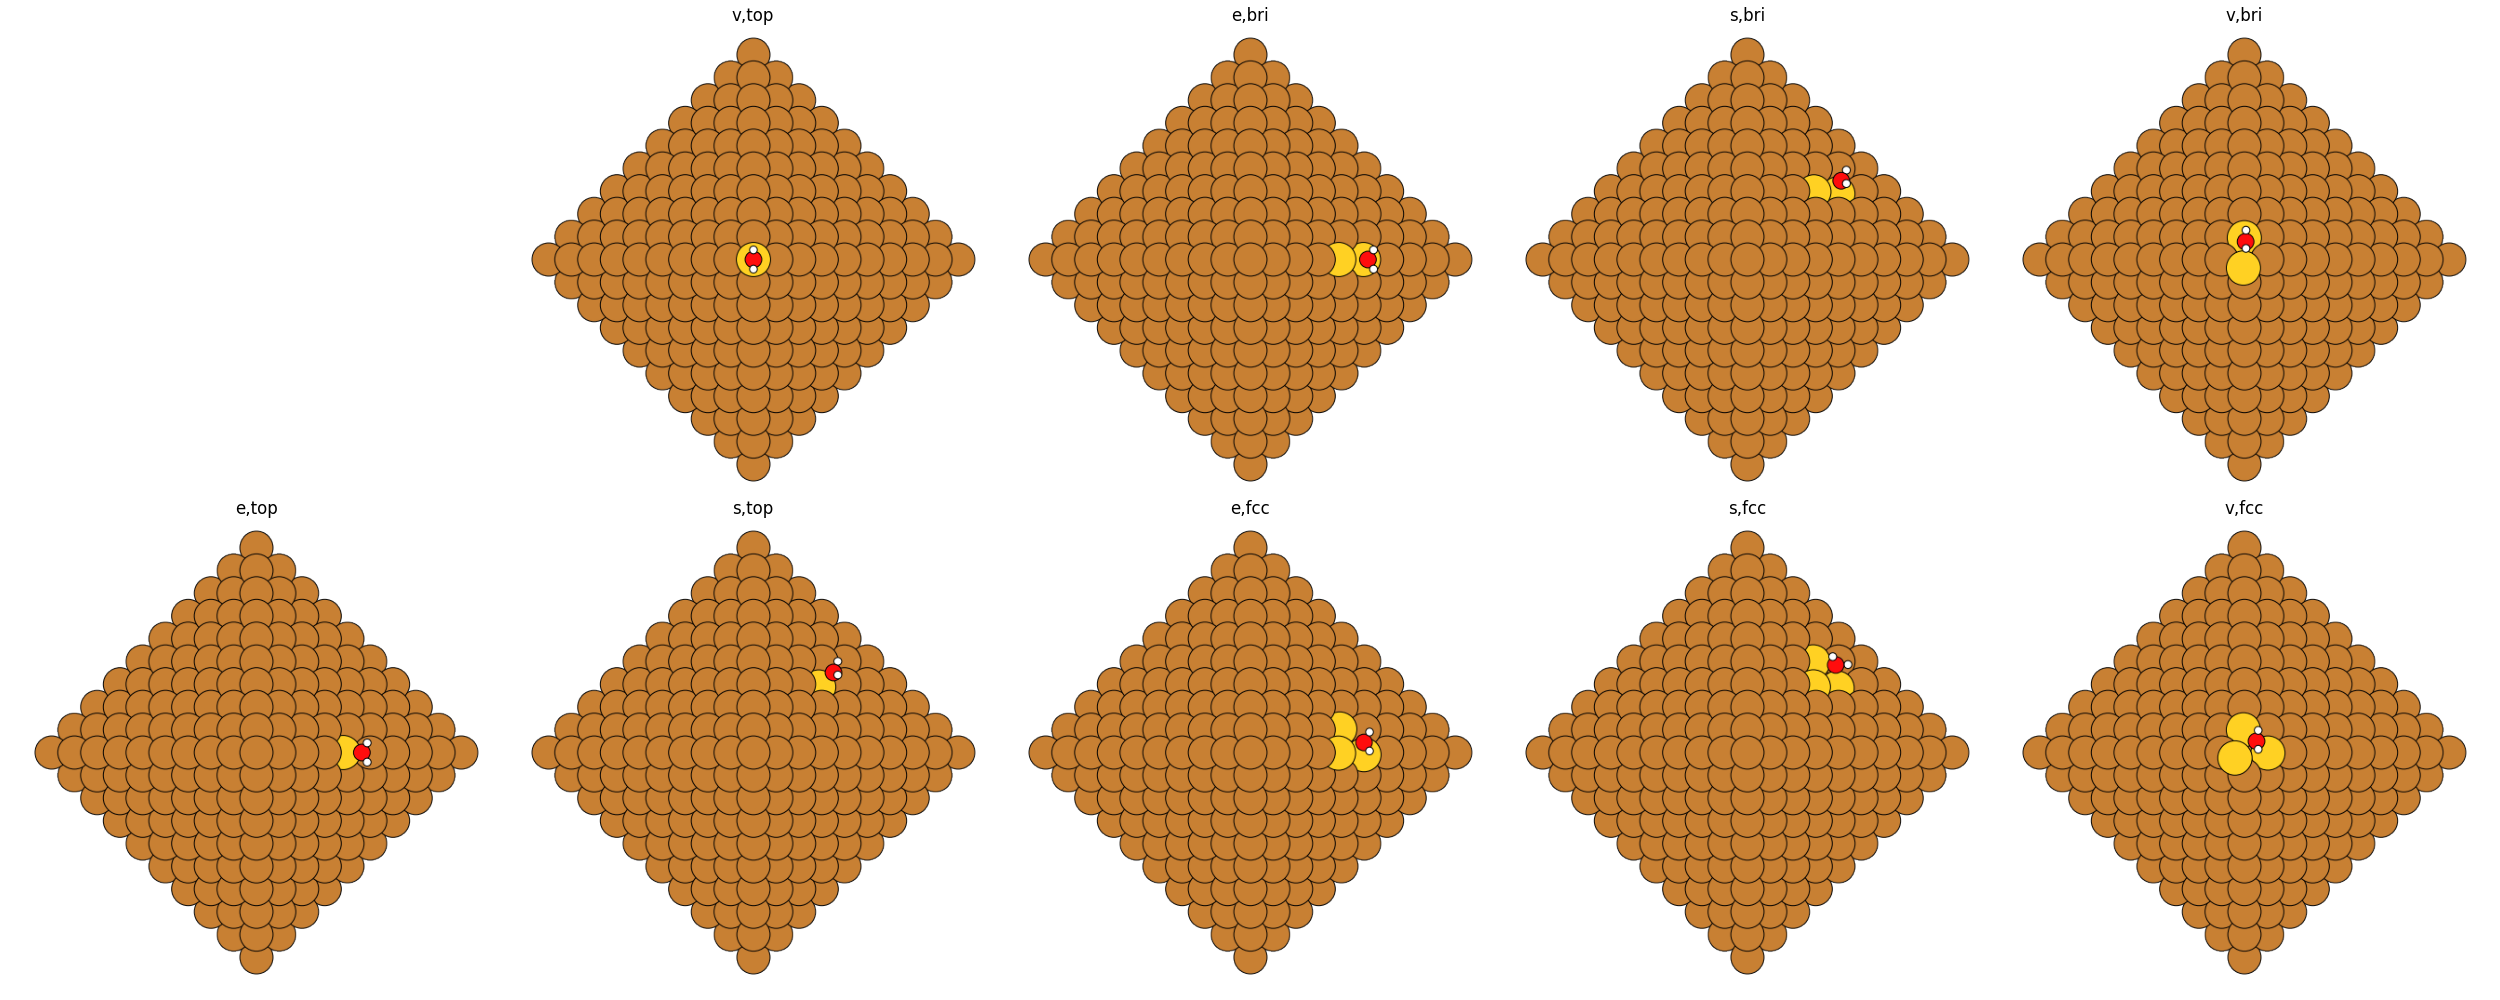
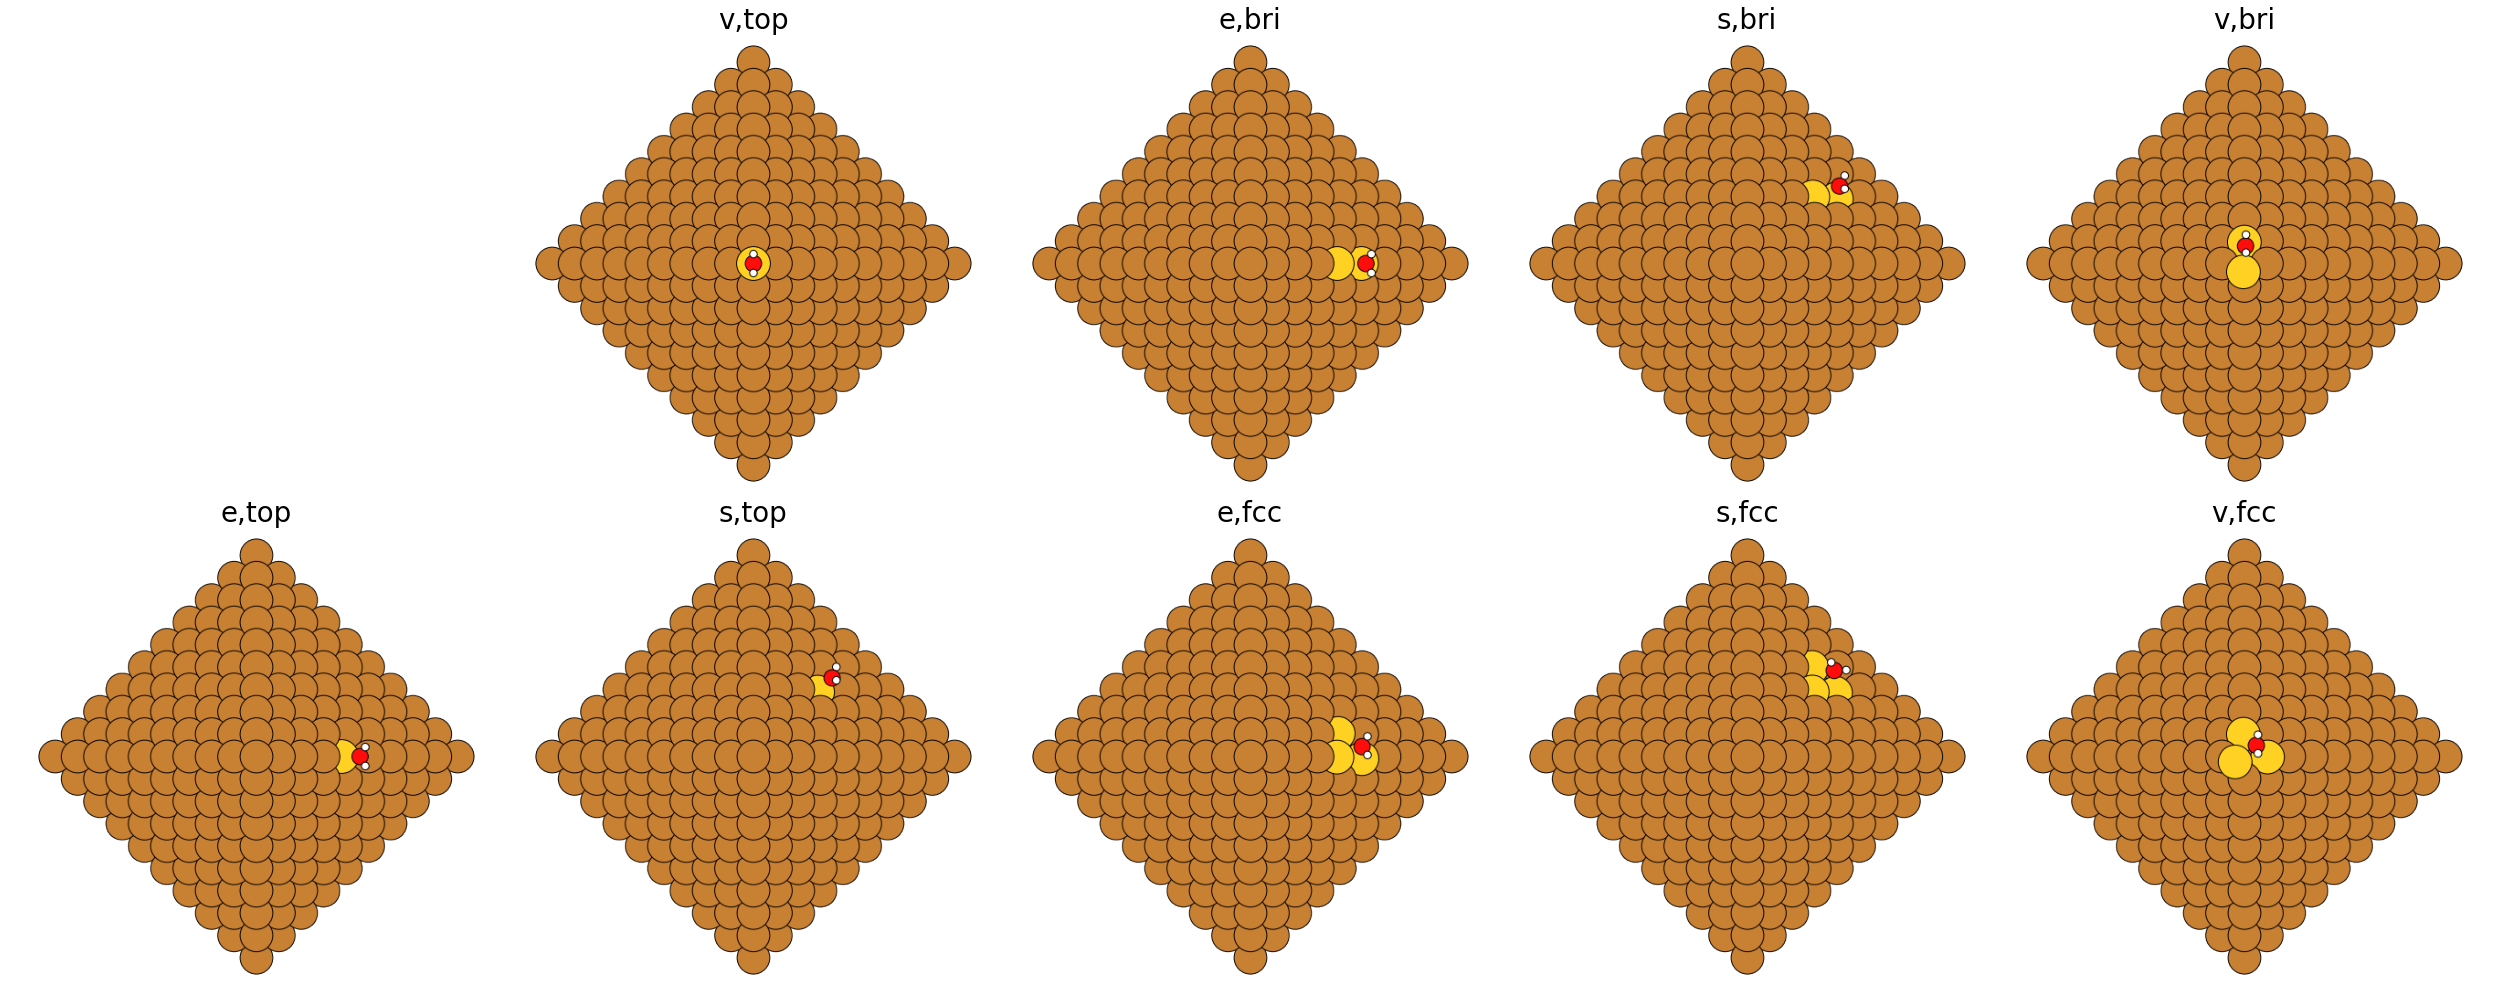
update

Changed region(s): [[0.0, 0.496, 0.9984, 0.961], [0.2184, 0.0, 0.9984, 0.465]]

diff --git a/results/png/plot.py b/results/png/plot.py
@@ -25,7 +25,10 @@ def plot(k="O"):  # noqa: D103
         if id != 0:
             f = pngs[id - 1]
             axes[i, j].imshow(plt.imread(f))
-            axes[i, j].set_title(",".join(f.name.split(".")[0].split("_")[1:3]))
+            axes[i, j].set_title(
+                ",".join(f.name.split(".")[0].split("_")[1:3]),
+                fontsize=20,
+            )
     fig.tight_layout()
     plt.savefig(f"ZZZ_{k}.png")
 
